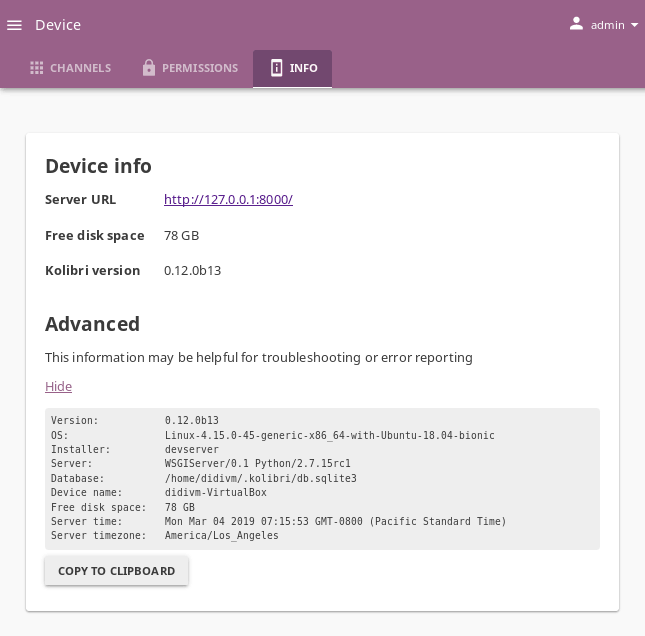
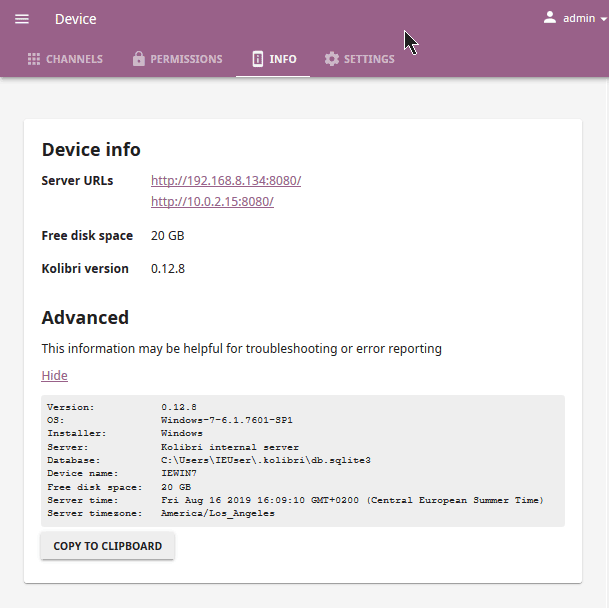
Emphasize port for network access and update the screenshot

diff --git a/docs/access.rst b/docs/access.rst
@@ -89,9 +89,9 @@ Kolibri currently supports the following combinations of operating systems and b
 Set up Access on Other Devices
 ******************************
 
-To access content from other devices in the same network, you need to know the :ref:`IP address <ips>` of the computer where Kolibri is running. 
+To access content from other devices in the same network, you need to know the :ref:`IP address <ips>` of the computer where Kolibri is running. The default port is **8080**, and you must add it after the IP address.
 
-For example, if Kolibri is installed and started on a computer with the IP address **192.168.0.104**, you can access it from an Android tablet connected to the same network by opening the browser on the tablet and typing the address ``http://192.168.0.104:8080``.
+For example, if Kolibri is installed and started on a computer with the IP address **192.168.8.134:8080**, you can access it from an Android tablet connected to the same network by opening the browser on the tablet and typing the address ``http://192.168.8.134:8080``.
 
 
 .. tip::
